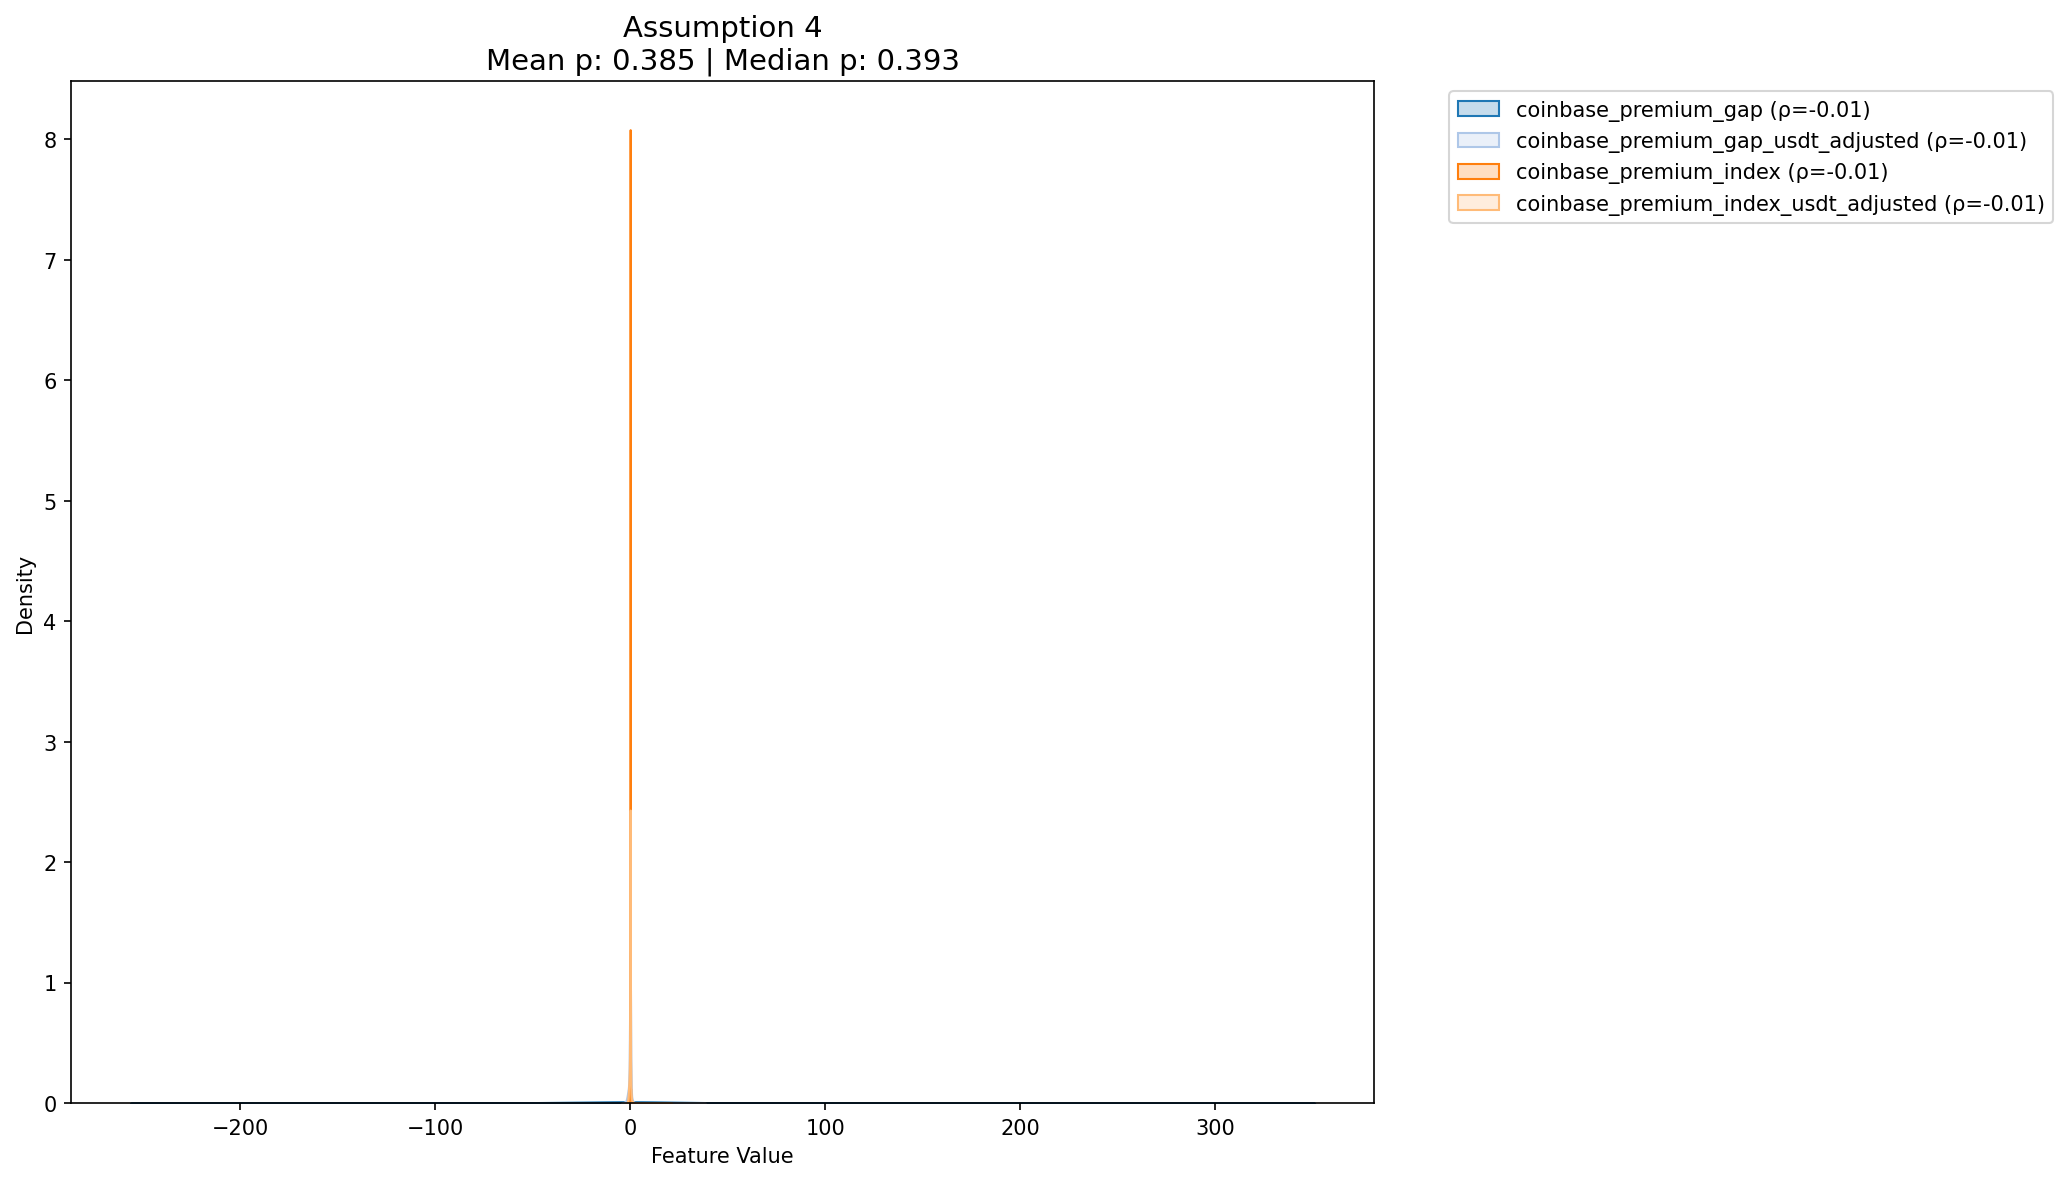
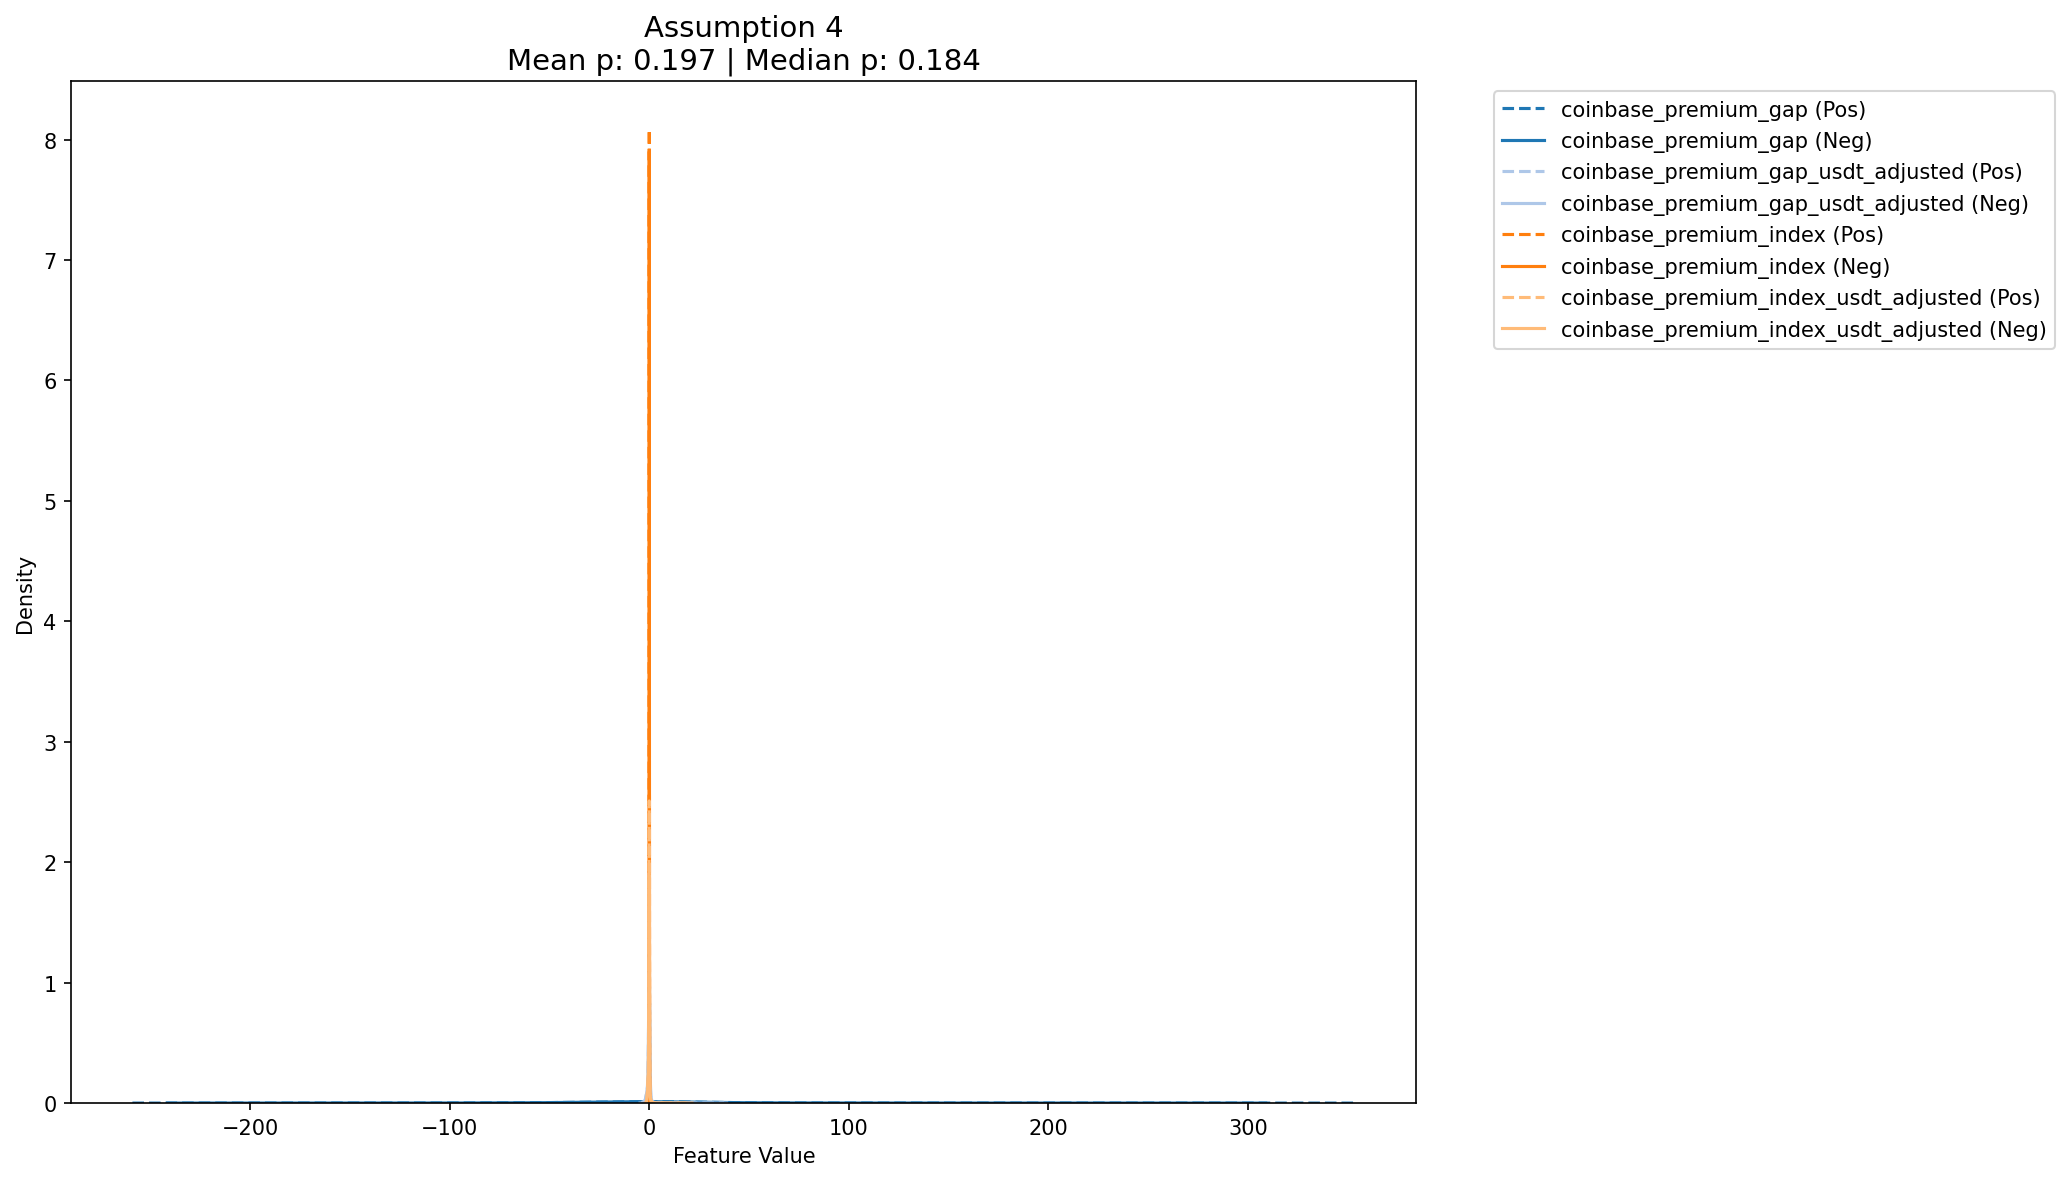
add all on chain feature

diff --git a/experimental/modeling/model_xgboost.py b/experimental/modeling/model_xgboost.py
@@ -5,7 +5,7 @@ import os
 from pathlib import Path
 import pandas as pd
 from tabulate import tabulate
-from scipy.stats import pearsonr, kstest
+from scipy.stats import pearsonr, ttest_ind
 import seaborn as sns
 import matplotlib.pyplot as plt
 import numpy as np
@@ -386,11 +386,25 @@ class XGBoostTradingModel:
             # Prepare data
             feature_cols = [f for f in features if f != "target" and f in df.columns]
             if not feature_cols:
+                print(f"Skipping {assumption_name} - no valid features")
                 continue
                 
-            valid_df = df[feature_cols + ["target"]].dropna()
+            if "target" not in df.columns:
+                valid_df = df[feature_cols].dropna()
+            else:
+                valid_df = df[feature_cols + ["target"]].dropna()
+                
             if len(valid_df) < 10:  # Minimum sample size
+                print(f"Skipping {assumption_name} - not enough samples ({len(valid_df)})")
                 continue
+                
+            # Split into positive and negative target groups if target exists
+            if "target" in valid_df.columns:
+                pos_group = valid_df[valid_df["target"] > 0][feature_cols]
+                neg_group = valid_df[valid_df["target"] <= 0][feature_cols]
+            else:
+                pos_group = valid_df[feature_cols]
+                neg_group = pd.DataFrame(columns=feature_cols)
                 
             # Calculate statistics
             feature_stats = []
@@ -398,26 +412,34 @@ class XGBoostTradingModel:
             
             for feature in feature_cols:
                 try:
-                    # Normality test
-                    _, norm_p = kstest(valid_df[feature], 'norm')
+                    # T-test between positive and negative groups
+                    if len(pos_group) >= 2 and len(neg_group) >= 2:
+                        t_stat, ttest_p = ttest_ind(pos_group[feature], neg_group[feature])
+                    else:
+                        t_stat, ttest_p = np.nan, np.nan
                     
-                    # Correlation with target
-                    if len(valid_df[feature].unique()) > 1:
+                    # Correlation with target (if target exists)
+                    if "target" in valid_df.columns and len(valid_df[feature].unique()) > 1:
                         corr, corr_p = pearsonr(valid_df[feature], valid_df["target"])
                     else:
                         corr, corr_p = np.nan, np.nan
                     
-                    p_values.append(corr_p)
+                    # Use t-test p-value as primary metric
+                    p_values.append(ttest_p)
                     
                     feature_stats.append({
                         'feature': feature,
                         'mean': valid_df[feature].mean(),
                         'std': valid_df[feature].std(),
-                        'normality_p': norm_p,
+                        't_statistic': t_stat,
+                        't_test_p': ttest_p,
                         'correlation': corr,
-                        'correlation_p': corr_p
+                        'correlation_p': corr_p,
+                        'pos_mean': pos_group[feature].mean() if len(pos_group) > 0 else np.nan,
+                        'neg_mean': neg_group[feature].mean() if len(neg_group) > 0 else np.nan
                     })
                 except Exception as e:
+                    print(f"Error processing {feature} in {assumption_name}: {str(e)}")
                     p_values.append(np.nan)
                     feature_stats.append({
                         'feature': feature,
@@ -444,15 +466,28 @@ class XGBoostTradingModel:
             # ========================================
             plt.figure(figsize=(14, 8))
             for j, feature in enumerate(feature_cols):
-                sns.kdeplot(valid_df[feature], 
-                        label=f"{feature} (ρ={feature_stats[j].get('correlation', np.nan):.2f})",
-                        color=plt.cm.tab20(j),
-                        fill=True)
+                # Plot distribution for positive and negative groups if target exists
+                if "target" in valid_df.columns and len(pos_group) > 0 and len(neg_group) > 0:
+                    sns.kdeplot(pos_group[feature], 
+                            label=f"{feature} (Pos)", 
+                            color=plt.cm.tab20(j), 
+                            linestyle='--')
+                    sns.kdeplot(neg_group[feature], 
+                            label=f"{feature} (Neg)", 
+                            color=plt.cm.tab20(j))
+                else:
+                    sns.kdeplot(valid_df[feature], 
+                            label=feature,
+                            color=plt.cm.tab20(j))
             
-            plt.title(f"{assumption_name}\nMean p: {mean_p:.3f} | Median p: {median_p:.3f}", fontsize=14)
+            plot_title = f"{assumption_name}\nMean p: {mean_p:.3f} | Median p: {median_p:.3f}"
+            if "target" not in valid_df.columns:
+                plot_title += "\n(No target available for t-tests)"
+                
+            plt.title(plot_title, fontsize=14)
             plt.xlabel("Feature Value")
             plt.ylabel("Density")
-            plt.legend(bbox_to_anchor=(1.05, 1), loc='upper left')  # FIXED HERE
+            plt.legend(bbox_to_anchor=(1.05, 1), loc='upper left')
             plt.tight_layout()
             
             individual_path = f"assumption_analysis/{assumption_name.replace(' ', '_')}.png"
@@ -464,10 +499,18 @@ class XGBoostTradingModel:
             # ========================================
             ax = plt.subplot(4, 2, i+1)
             for j, feature in enumerate(feature_cols):
-                sns.kdeplot(valid_df[feature], 
-                        label=feature,
-                        color=plt.cm.tab20(j),
-                        ax=ax)
+                if "target" in valid_df.columns and len(pos_group) > 0 and len(neg_group) > 0:
+                    sns.kdeplot(pos_group[feature], 
+                            color=plt.cm.tab20(j), 
+                            linestyle='--', 
+                            ax=ax)
+                    sns.kdeplot(neg_group[feature], 
+                            color=plt.cm.tab20(j), 
+                            ax=ax)
+                else:
+                    sns.kdeplot(valid_df[feature], 
+                            color=plt.cm.tab20(j), 
+                            ax=ax)
             
             ax.set_title(f"{assumption_name}\n(avg p={mean_p:.2f})", fontsize=10)
             ax.set_xlabel("")
@@ -488,7 +531,7 @@ class XGBoostTradingModel:
         
         # Print summary
         print("\n" + "="*50)
-        print("ASSUMPTION STATISTICS SUMMARY")
+        print("ASSUMPTION STATISTICS SUMMARY (Using t-tests)")
         print("="*50)
         print(tabulate(
             stats_df[['assumption', 'mean_p_value', 'median_p_value', 
@@ -499,18 +542,20 @@ class XGBoostTradingModel:
             showindex=False
         ))
         
-        print("\n" + "="*50)
-        print("TOP FEATURES BY CORRELATION")
-        print("="*50)
-        for assumption in stats_df['assumption']:
-            print(f"\n{assumption}:")
-            df = details_df[details_df['assumption'] == assumption]
-            print(tabulate(
-                df.sort_values('correlation_p')[['feature', 'correlation', 'correlation_p']],
-                headers=['Feature', 'Correlation', 'p-value'],
-                tablefmt='grid',
-                floatfmt=".4f"
-            ))
+        if "target" in df.columns:
+            print("\n" + "="*50)
+            print("TOP FEATURES BY T-TEST SIGNIFICANCE")
+            print("="*50)
+            for assumption in stats_df['assumption']:
+                print(f"\n{assumption}:")
+                df = details_df[details_df['assumption'] == assumption]
+                print(tabulate(
+                    df.sort_values('t_test_p')[['feature', 't_statistic', 't_test_p', 
+                                            'pos_mean', 'neg_mean']],
+                    headers=['Feature', 't-stat', 'p-value', 'Pos Mean', 'Neg Mean'],
+                    tablefmt='grid',
+                    floatfmt=".4f"
+                ))
         
         print("\n" + "="*50)
         print(f"Saved plots to: {os.path.abspath('assumption_analysis')}")
@@ -529,8 +574,6 @@ class XGBoostTradingModel:
                 "tokens_transferred_total",
             ]
             best_features = [f for f in original_features if f in df.columns]
-            # if not best_features:
-            #     raise ValueError("No valid features found in DataFrame")
         
         return df[best_features].dropna().reset_index(drop=True)
 

diff --git a/experimental/modeling/constants.py b/experimental/modeling/constants.py
@@ -67,3 +67,5 @@ ASSUMPTION_8 = [
     "tokens_transferred_total",
     "target",
 ]
+
+ALL_ON_CHAIN_FEATURES = ["difficulty", "estimated_leverage_ratio", "addresses_count_active", "addresses_count_sender", "addresses_count_receiver", "exchange_whale_ratio", "coinbase_premium_gap", "coinbase_premium_index", "coinbase_premium_gap_usdt_adjusted", "coinbase_premium_index_usdt_adjusted", "taker_buy_volume", "taker_sell_volume", "taker_buy_ratio", "taker_sell_ratio", "taker_buy_sell_ratio", "blockreward", "blockreward_usd", "fees_transaction_mean", "fees_transaction_mean_usd", "fees_transaction_median", "fees_transaction_median_usd", "miner_supply_ratio", "addresses_count_inflow", "addresses_count_outflow", "exchange_supply_ratio", "transactions_count_inflow", "tokens_transferred_total", "tokens_transferred_mean", "tokens_transferred_median", "transactions_count_inflow", "transactions_count_outflow", "long_liquidations", "short_liquidations", "long_liquidations_usd", "short_liquidations_usd", "open_price", "high_price", "low_price", "close_price", "volume", "open_interest"]
